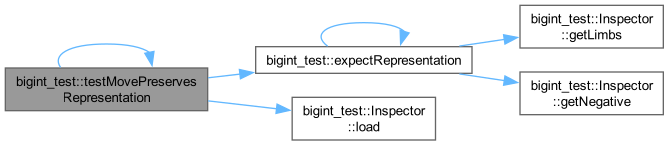
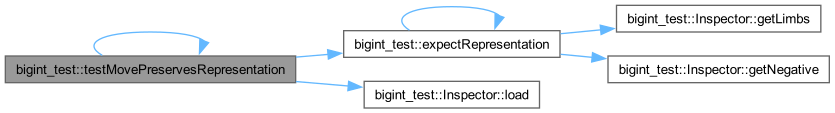
Updated doxygen docs

Changed region(s): [[0.0, 0.0265, 1.0, 0.9823]]

diff --git a/docs/doxygen/html/dd/db0/namespacebigint__test.html b/docs/doxygen/html/dd/db0/namespacebigint__test.html
@@ -185,12 +185,12 @@ Here is the call graph for this function:</div>
 <div class="dyncontent">
 <div class="center"><img src="../../dd/db0/namespacebigint__test_afb392cf99372bf839e0efb54e337c7db_cgraph.png" border="0" usemap="#add/db0/namespacebigint__test_afb392cf99372bf839e0efb54e337c7db_cgraph" loading="lazy" alt=""/></div>
 <map name="add/db0/namespacebigint__test_afb392cf99372bf839e0efb54e337c7db_cgraph" id="add/db0/namespacebigint__test_afb392cf99372bf839e0efb54e337c7db_cgraph">
-<area shape="rect" title="Asserts that a bigint matches the expected internal representation." alt="" coords="5,47,222,73"/>
-<area shape="poly" title=" " alt="" coords="75,46,68,38,73,28,88,22,114,20,141,23,157,32,152,32,140,28,113,25,90,27,77,32,74,37,80,46"/>
-<area shape="rect" href="../../dc/d6d/structbigint__test_1_1Inspector.html#a619484ef6d15d98c6486e08c9e8e839d" title="Returns the raw limb storage of the bigint in least&#45;significant&#45;first order." alt="" coords="270,5,413,48"/>
-<area shape="poly" title=" " alt="" coords="208,43,257,39,251,40,210,49"/>
-<area shape="rect" href="../../dc/d6d/structbigint__test_1_1Inspector.html#a514a3a70e55e44d933e6378f5bcfb9a4" title="Returns the sign flag stored in the bigint." alt="" coords="270,72,413,115"/>
-<area shape="poly" title=" " alt="" coords="209,71,257,80,251,81,209,77"/>
+<area shape="rect" title="Asserts that a bigint matches the expected internal representation." alt="" coords="5,31,222,57"/>
+<area shape="poly" title=" " alt="" coords="68,30,61,22,66,12,84,6,114,4,146,7,164,16,159,16,144,12,113,9,85,11,70,16,66,21,74,30"/>
+<area shape="rect" href="../../dc/d6d/structbigint__test_1_1Inspector.html#a619484ef6d15d98c6486e08c9e8e839d" title="Returns the raw limb storage of the bigint in least&#45;significant&#45;first order." alt="" coords="278,5,482,32"/>
+<area shape="poly" title=" " alt="" coords="222,31,265,29,260,30,223,36"/>
+<area shape="rect" href="../../dc/d6d/structbigint__test_1_1Inspector.html#a514a3a70e55e44d933e6378f5bcfb9a4" title="Returns the sign flag stored in the bigint." alt="" coords="270,56,491,83"/>
+<area shape="poly" title=" " alt="" coords="222,52,257,57,251,57,222,57"/>
 </map>
 </div>
 
@@ -238,17 +238,17 @@ Here is the call graph for this function:</div>
 <div class="dyncontent">
 <div class="center"><img src="../../dd/db0/namespacebigint__test_a792481768a7337c9178bfe19e5e8ae42_cgraph.png" border="0" usemap="#add/db0/namespacebigint__test_a792481768a7337c9178bfe19e5e8ae42_cgraph" loading="lazy" alt=""/></div>
 <map name="add/db0/namespacebigint__test_a792481768a7337c9178bfe19e5e8ae42_cgraph" id="add/db0/namespacebigint__test_a792481768a7337c9178bfe19e5e8ae42_cgraph">
-<area shape="rect" title="Verifies that copy&#45;assignment preserves the original internal representation." alt="" coords="5,68,207,111"/>
-<area shape="poly" title=" " alt="" coords="58,67,56,58,64,49,81,43,106,41,133,44,151,52,146,53,132,49,106,47,82,49,67,53,61,59,63,68"/>
-<area shape="rect" href="../../dd/db0/namespacebigint__test.html#afb392cf99372bf839e0efb54e337c7db" title="Asserts that a bigint matches the expected internal representation." alt="" coords="255,47,471,73"/>
-<area shape="poly" title=" " alt="" coords="207,75,242,74,236,75,208,80"/>
-<area shape="rect" href="../../dc/d6d/structbigint__test_1_1Inspector.html#a5d2265b8166f0adbdbede0c8fda1af3d" title="Loads a bigint directly with a supplied internal limb list and sign." alt="" coords="291,97,434,140"/>
-<area shape="poly" title=" " alt="" coords="207,98,278,108,273,109,207,104"/>
-<area shape="poly" title=" " alt="" coords="324,45,318,38,322,28,338,22,363,20,390,23,406,32,401,32,389,28,363,25,339,27,326,32,323,37,329,47"/>
-<area shape="rect" href="../../dc/d6d/structbigint__test_1_1Inspector.html#a619484ef6d15d98c6486e08c9e8e839d" title="Returns the raw limb storage of the bigint in least&#45;significant&#45;first order." alt="" coords="519,5,662,48"/>
-<area shape="poly" title=" " alt="" coords="458,43,506,39,501,40,459,49"/>
-<area shape="rect" href="../../dc/d6d/structbigint__test_1_1Inspector.html#a514a3a70e55e44d933e6378f5bcfb9a4" title="Returns the sign flag stored in the bigint." alt="" coords="519,72,662,115"/>
-<area shape="poly" title=" " alt="" coords="458,71,506,81,501,81,458,77"/>
+<area shape="rect" title="Verifies that copy&#45;assignment preserves the original internal representation." alt="" coords="5,56,295,83"/>
+<area shape="poly" title=" " alt="" coords="99,55,91,47,97,37,117,31,150,29,186,32,206,41,201,41,185,37,150,35,118,37,101,42,96,47,105,55"/>
+<area shape="rect" href="../../dd/db0/namespacebigint__test.html#afb392cf99372bf839e0efb54e337c7db" title="Asserts that a bigint matches the expected internal representation." alt="" coords="343,31,559,57"/>
+<area shape="poly" title=" " alt="" coords="295,54,330,54,324,55,295,60"/>
+<area shape="rect" href="../../dc/d6d/structbigint__test_1_1Inspector.html#a5d2265b8166f0adbdbede0c8fda1af3d" title="Loads a bigint directly with a supplied internal limb list and sign." alt="" coords="363,81,538,108"/>
+<area shape="poly" title=" " alt="" coords="295,79,350,86,345,86,295,84"/>
+<area shape="poly" title=" " alt="" coords="406,29,398,22,404,12,422,6,451,4,483,7,501,16,496,16,482,12,451,9,423,11,407,16,404,21,411,31"/>
+<area shape="rect" href="../../dc/d6d/structbigint__test_1_1Inspector.html#a619484ef6d15d98c6486e08c9e8e839d" title="Returns the raw limb storage of the bigint in least&#45;significant&#45;first order." alt="" coords="616,5,820,32"/>
+<area shape="poly" title=" " alt="" coords="559,31,603,30,597,30,560,36"/>
+<area shape="rect" href="../../dc/d6d/structbigint__test_1_1Inspector.html#a514a3a70e55e44d933e6378f5bcfb9a4" title="Returns the sign flag stored in the bigint." alt="" coords="607,56,828,83"/>
+<area shape="poly" title=" " alt="" coords="560,52,594,57,589,57,560,57"/>
 </map>
 </div>
 
@@ -296,17 +296,17 @@ Here is the call graph for this function:</div>
 <div class="dyncontent">
 <div class="center"><img src="../../dd/db0/namespacebigint__test_a1dc9ce8fdd5412f568c485ceeaff7978_cgraph.png" border="0" usemap="#add/db0/namespacebigint__test_a1dc9ce8fdd5412f568c485ceeaff7978_cgraph" loading="lazy" alt=""/></div>
 <map name="add/db0/namespacebigint__test_a1dc9ce8fdd5412f568c485ceeaff7978_cgraph" id="add/db0/namespacebigint__test_a1dc9ce8fdd5412f568c485ceeaff7978_cgraph">
-<area shape="rect" title="Verifies that move&#45;assignment preserves the source state while transferring ownership." alt="" coords="5,68,208,111"/>
-<area shape="poly" title=" " alt="" coords="58,67,56,58,64,49,81,43,107,41,134,44,152,52,147,53,133,49,106,47,82,49,67,53,61,59,63,68"/>
-<area shape="rect" href="../../dd/db0/namespacebigint__test.html#afb392cf99372bf839e0efb54e337c7db" title="Asserts that a bigint matches the expected internal representation." alt="" coords="256,47,472,73"/>
-<area shape="poly" title=" " alt="" coords="208,75,243,74,237,75,209,80"/>
-<area shape="rect" href="../../dc/d6d/structbigint__test_1_1Inspector.html#a5d2265b8166f0adbdbede0c8fda1af3d" title="Loads a bigint directly with a supplied internal limb list and sign." alt="" coords="292,97,436,140"/>
-<area shape="poly" title=" " alt="" coords="208,98,279,109,274,109,208,104"/>
-<area shape="poly" title=" " alt="" coords="325,45,319,38,323,28,339,22,364,20,391,23,407,32,402,32,390,28,364,25,340,27,327,32,324,37,330,47"/>
-<area shape="rect" href="../../dc/d6d/structbigint__test_1_1Inspector.html#a619484ef6d15d98c6486e08c9e8e839d" title="Returns the raw limb storage of the bigint in least&#45;significant&#45;first order." alt="" coords="520,5,663,48"/>
-<area shape="poly" title=" " alt="" coords="459,43,507,39,502,40,460,49"/>
-<area shape="rect" href="../../dc/d6d/structbigint__test_1_1Inspector.html#a514a3a70e55e44d933e6378f5bcfb9a4" title="Returns the sign flag stored in the bigint." alt="" coords="520,72,663,115"/>
-<area shape="poly" title=" " alt="" coords="459,71,507,81,502,81,459,77"/>
+<area shape="rect" title="Verifies that move&#45;assignment preserves the source state while transferring ownership." alt="" coords="5,56,296,83"/>
+<area shape="poly" title=" " alt="" coords="100,55,91,47,98,37,118,31,151,29,186,32,207,41,202,41,185,37,150,35,119,37,101,42,97,47,105,55"/>
+<area shape="rect" href="../../dd/db0/namespacebigint__test.html#afb392cf99372bf839e0efb54e337c7db" title="Asserts that a bigint matches the expected internal representation." alt="" coords="344,31,560,57"/>
+<area shape="poly" title=" " alt="" coords="296,54,331,54,326,55,296,60"/>
+<area shape="rect" href="../../dc/d6d/structbigint__test_1_1Inspector.html#a5d2265b8166f0adbdbede0c8fda1af3d" title="Loads a bigint directly with a supplied internal limb list and sign." alt="" coords="364,81,540,108"/>
+<area shape="poly" title=" " alt="" coords="296,79,351,86,346,86,296,84"/>
+<area shape="poly" title=" " alt="" coords="407,29,399,22,405,12,423,6,452,4,484,7,502,16,497,16,483,12,452,9,424,11,408,16,405,21,412,31"/>
+<area shape="rect" href="../../dc/d6d/structbigint__test_1_1Inspector.html#a619484ef6d15d98c6486e08c9e8e839d" title="Returns the raw limb storage of the bigint in least&#45;significant&#45;first order." alt="" coords="616,5,821,32"/>
+<area shape="poly" title=" " alt="" coords="560,31,604,30,598,30,561,36"/>
+<area shape="rect" href="../../dc/d6d/structbigint__test_1_1Inspector.html#a514a3a70e55e44d933e6378f5bcfb9a4" title="Returns the sign flag stored in the bigint." alt="" coords="608,56,829,83"/>
+<area shape="poly" title=" " alt="" coords="561,52,595,57,590,57,561,57"/>
 </map>
 </div>
 

diff --git a/docs/doxygen/html/da/d9f/classDigitCountTypedTest.html b/docs/doxygen/html/da/d9f/classDigitCountTypedTest.html
@@ -120,21 +120,21 @@ Inheritance diagram for DigitCountTypedTest&lt; T &gt;:</div>
 <div class="dyncontent">
 <div class="center"><img src="../../d8/d81/classDigitCountTypedTest__inherit__graph.png" border="0" usemap="#aDigitCountTypedTest_3_01T_01_4_inherit__map" loading="lazy" alt="Inheritance graph"/></div>
 <map name="aDigitCountTypedTest_3_01T_01_4_inherit__map" id="aDigitCountTypedTest_3_01T_01_4_inherit__map">
-<area shape="rect" title=" " alt="" coords="5,80,180,107"/>
-<area shape="rect" title=" " alt="" coords="46,5,139,32"/>
-<area shape="poly" title=" " alt="" coords="94,46,95,81,90,79,91,50"/>
+<area shape="rect" title=" " alt="" coords="5,123,169,192"/>
+<area shape="rect" title=" " alt="" coords="46,5,128,75"/>
+<area shape="poly" title=" " alt="" coords="89,88,90,124,85,122,86,92"/>
 </map>
-<center><span class="legend">[<a target="top" href="../../graph_legend.html">legend</a>]</span></center></div>
+</div>
 <div class="dynheader">
 Collaboration diagram for DigitCountTypedTest&lt; T &gt;:</div>
 <div class="dyncontent">
 <div class="center"><img src="../../d8/d8c/classDigitCountTypedTest__coll__graph.png" border="0" usemap="#aDigitCountTypedTest_3_01T_01_4_coll__map" loading="lazy" alt="Collaboration graph"/></div>
 <map name="aDigitCountTypedTest_3_01T_01_4_coll__map" id="aDigitCountTypedTest_3_01T_01_4_coll__map">
-<area shape="rect" title=" " alt="" coords="5,80,180,107"/>
-<area shape="rect" title=" " alt="" coords="46,5,139,32"/>
-<area shape="poly" title=" " alt="" coords="94,46,95,81,90,79,91,50"/>
+<area shape="rect" title=" " alt="" coords="5,123,169,192"/>
+<area shape="rect" title=" " alt="" coords="46,5,128,75"/>
+<area shape="poly" title=" " alt="" coords="89,88,90,124,85,122,86,92"/>
 </map>
-<center><span class="legend">[<a target="top" href="../../graph_legend.html">legend</a>]</span></center></div>
+</div>
 <a name="details" id="details"></a><h2 id="header-details" class="groupheader">Detailed Description</h2>
 <div class="textblock"><div class="compoundTemplParams">template&lt;typename T&gt;<br />
 class DigitCountTypedTest&lt; T &gt;</div>

diff --git a/docs/doxygen/html/da/d5b/classBigInt.html b/docs/doxygen/html/da/d5b/classBigInt.html
@@ -125,11 +125,15 @@ Collaboration diagram for BigInt:</div>
 <div class="dyncontent">
 <div class="center"><img src="../../dd/dec/classBigInt__coll__graph.png" border="0" usemap="#aBigInt_coll__map" loading="lazy" alt="Collaboration graph"/></div>
 <map name="aBigInt_coll__map" id="aBigInt_coll__map">
-<area shape="rect" title="Big integer type class, copies the functionality of regular integers, but on arbitrary scale." alt="" coords="48,104,104,131"/>
-<area shape="rect" title=" " alt="" coords="5,5,147,32"/>
-<area shape="poly" title=" " alt="" coords="78,46,79,104,73,103,74,49"/>
+<area shape="rect" title="Big integer type class, copies the functionality of regular integers, but on arbitrary scale." alt="" coords="5,288,384,763"/>
+<area shape="rect" title=" " alt="" coords="75,147,206,216"/>
+<area shape="poly" title=" " alt="" coords="140,213,145,264,146,271,140,271,140,264,139,219"/>
+<area shape="rect" title=" " alt="" coords="117,5,163,75"/>
+<area shape="poly" title=" " alt="" coords="140,72,143,130,138,130,140,77"/>
+<area shape="rect" title=" " alt="" coords="232,147,267,216"/>
+<area shape="poly" title=" " alt="" coords="245,213,238,272,233,271,243,218"/>
 </map>
-<center><span class="legend">[<a target="top" href="../../graph_legend.html">legend</a>]</span></center></div>
+</div>
 <table class="memberdecls">
 <tr class="heading"><td colspan="2"><h2 id="header-pub-methods" class="groupheader"><a id="pub-methods" name="pub-methods"></a>
 Public Member Functions</h2></td></tr>

diff --git a/docs/doxygen/html/navtreeindex0.js b/docs/doxygen/html/navtreeindex0.js
@@ -83,12 +83,12 @@ var NAVTREEINDEX0 =
 "db/db5/test__digitcount_8cpp_source.html":[5,0,0,2,1,2],
 "dc/d6d/structbigint__test_1_1Inspector.html":[3,0,0,0],
 "dc/d6d/structbigint__test_1_1Inspector.html":[4,0,0,0],
-"dc/d6d/structbigint__test_1_1Inspector.html#a514a3a70e55e44d933e6378f5bcfb9a4":[4,0,0,0,1],
 "dc/d6d/structbigint__test_1_1Inspector.html#a514a3a70e55e44d933e6378f5bcfb9a4":[3,0,0,0,1],
-"dc/d6d/structbigint__test_1_1Inspector.html#a5d2265b8166f0adbdbede0c8fda1af3d":[4,0,0,0,2],
+"dc/d6d/structbigint__test_1_1Inspector.html#a514a3a70e55e44d933e6378f5bcfb9a4":[4,0,0,0,1],
 "dc/d6d/structbigint__test_1_1Inspector.html#a5d2265b8166f0adbdbede0c8fda1af3d":[3,0,0,0,2],
-"dc/d6d/structbigint__test_1_1Inspector.html#a619484ef6d15d98c6486e08c9e8e839d":[4,0,0,0,0],
+"dc/d6d/structbigint__test_1_1Inspector.html#a5d2265b8166f0adbdbede0c8fda1af3d":[4,0,0,0,2],
 "dc/d6d/structbigint__test_1_1Inspector.html#a619484ef6d15d98c6486e08c9e8e839d":[3,0,0,0,0],
+"dc/d6d/structbigint__test_1_1Inspector.html#a619484ef6d15d98c6486e08c9e8e839d":[4,0,0,0,0],
 "dc/da7/test__construction__move_8cpp_source.html":[5,0,0,2,0,5],
 "dd/d07/demo_2tests_2test__gtest__framework_8cpp_source.html":[5,0,2,0,0],
 "dd/d1f/test__normalisation_8cpp_source.html":[5,0,0,2,0,8],

diff --git a/docs/doxygen/html/dc/d6d/structbigint__test_1_1Inspector.html b/docs/doxygen/html/dc/d6d/structbigint__test_1_1Inspector.html
@@ -120,6 +120,14 @@ document.addEventListener('DOMContentLoaded',() => { initNavTree('dc/d6d/structb
  <a href="#details">More...</a></p>
 
 <p><code>#include &lt;<a class="el" href="../../dd/d28/test__helpers_8hpp_source.html">test_helpers.hpp</a>&gt;</code></p>
+<div class="dynheader">
+Collaboration diagram for bigint_test::Inspector:</div>
+<div class="dyncontent">
+<div class="center"><img src="../../d1/dd9/structbigint__test_1_1Inspector__coll__graph.png" border="0" usemap="#abigint__test_1_1Inspector_coll__map" loading="lazy" alt="Collaboration graph"/></div>
+<map name="abigint__test_1_1Inspector_coll__map" id="abigint__test_1_1Inspector_coll__map">
+<area shape="rect" title="Test helper for inspecting the private internal representation of a BigInt." alt="" coords="5,5,381,133"/>
+</map>
+</div>
 <table class="memberdecls">
 <tr class="heading"><td colspan="2"><h2 id="header-pub-static-methods" class="groupheader"><a id="pub-static-methods" name="pub-static-methods"></a>
 Static Public Member Functions</h2></td></tr>
